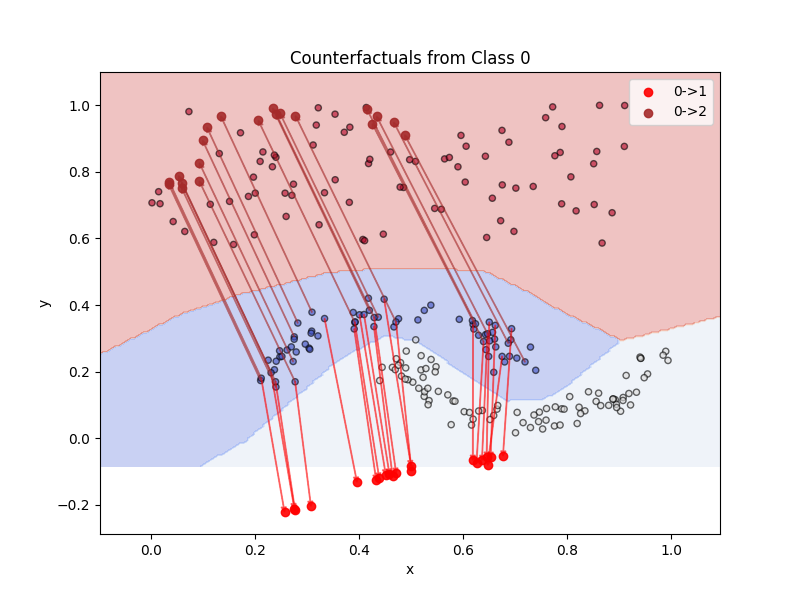
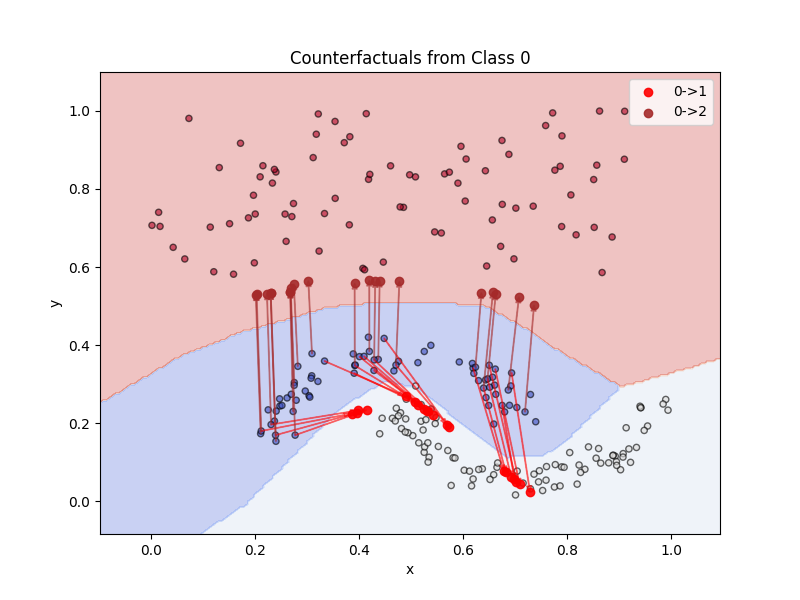
moons best performance

diff --git a/conditional_counteRGAN/moons/trainer.py b/conditional_counteRGAN/moons/trainer.py
@@ -51,6 +51,7 @@ def train_countergan(config, X_train, y_train, clf_model):
     clf_model.eval()
 
     d_losses, g_losses = [], []
+    batch_inspected = 0
 
     for epoch in range(config['epochs']):
         epoch_d_losses, epoch_g_losses = [], []
@@ -64,6 +65,12 @@ def train_countergan(config, X_train, y_train, clf_model):
 
             residual = G(x_batch, target_onehot)
             x_cf = x_batch + residual
+            # if batch_inspected < 1:
+            #     print(f"Example originals (first 5):\n{x_batch[:5].detach().cpu().numpy()}")
+            #     print(f"Example residuals (first 5):\n{residual[:5].detach().cpu().numpy()}")
+            #     print(f"Example counterfactuals (first 5):\n{x_cf[:5].detach().cpu().numpy()}")
+            #     batch_inspected += 1
+
 
             # D update
             D_real = D(x_batch)

diff --git a/conditional_counteRGAN/moons/config.py b/conditional_counteRGAN/moons/config.py
@@ -1,9 +1,9 @@
 config = {
     "seed": 42,
-    "epochs": 2000,
+    "epochs": 600,
     "batch_size": 128,
-    "lr_G": 1e-5,
-    "lr_D": 1e-5,
+    "lr_G": 1e-3,
+    "lr_D": 1e-3,
     "lambda_cls": 2.0,
     "lambda_reg": 1.0,
     "input_dim": 2,
